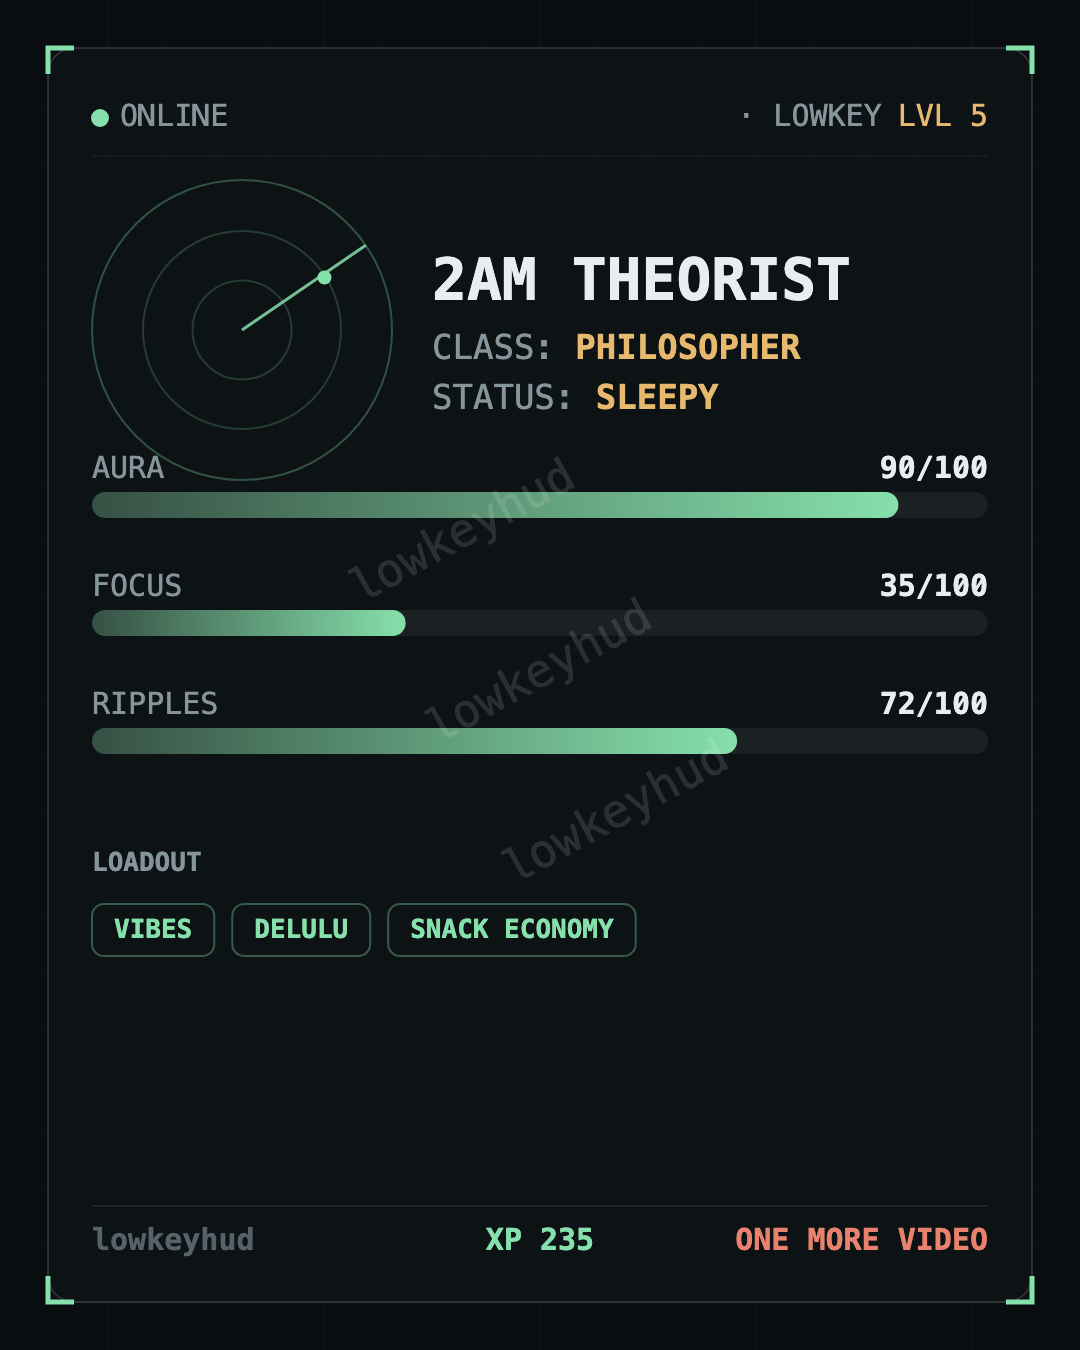
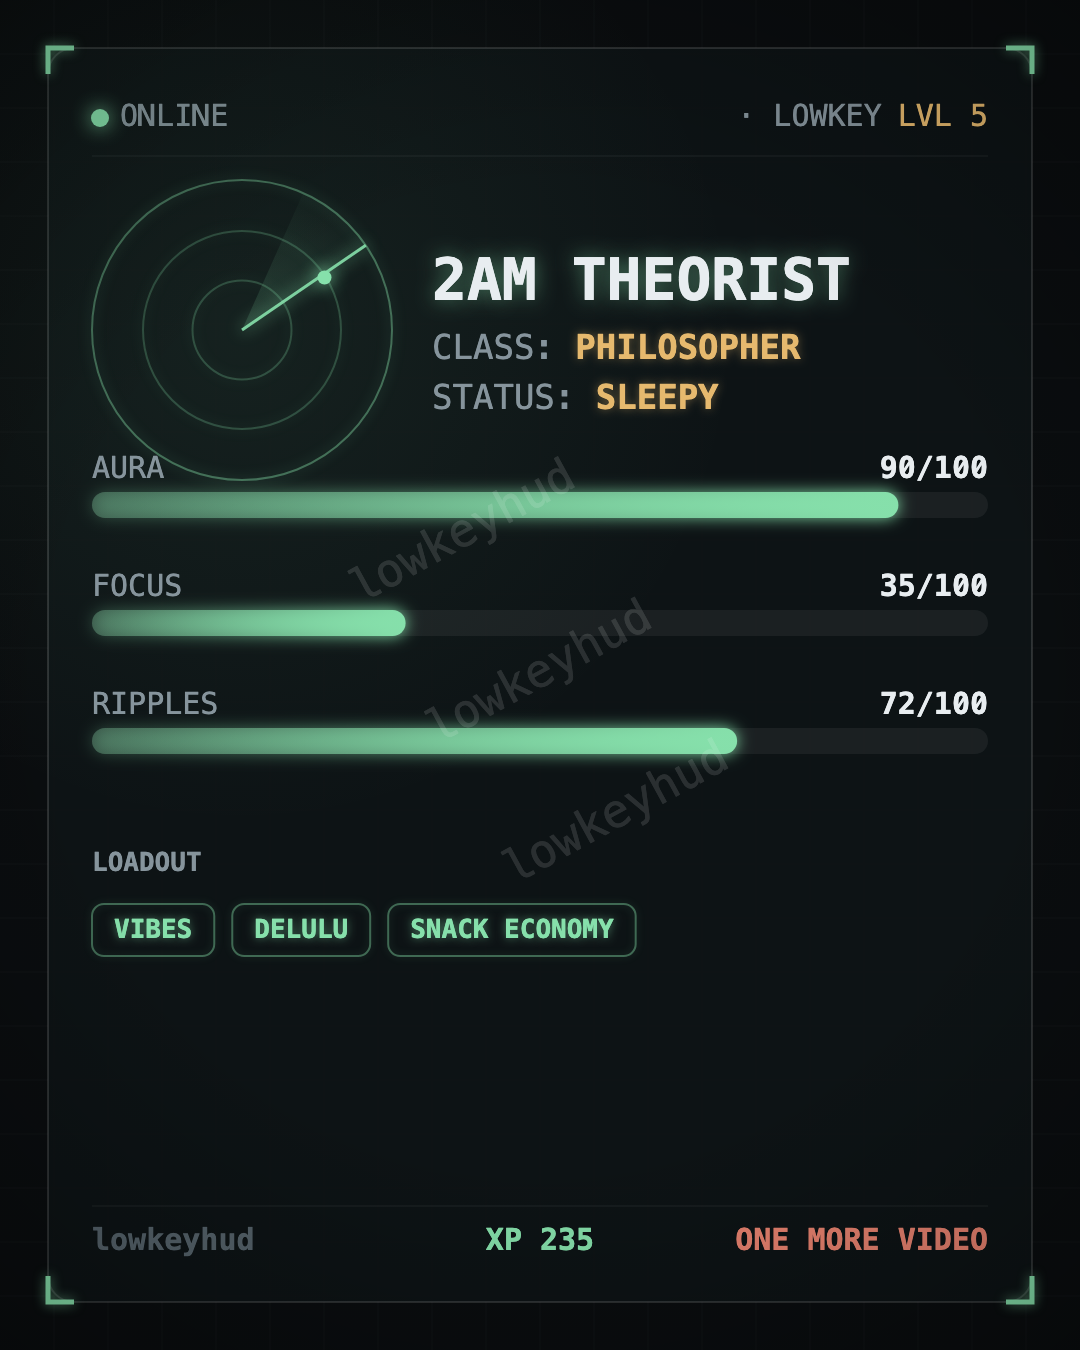
Add neon glow treatment to the HUD card
The card now emits light instead of sitting flat: glowing corner
brackets, a pulsing ONLINE dot, neon radar rings with a sweep cone that
rotates in the GIF, a glowing avatar ring, soft glow on the name and
amber values, luminous stat-bar fills, glowing chips, an ambient green
bloom behind the radar zone, and a vignette for depth. DOM preview
matches with radar/bar/name glow. Re-exported all launch cards (PNG +
GIF) with the glow; verified by pixel checks (photo vs radar now
distinguished by distinct-color count, since the glow lights the radar
centre).

🤖 Generated with Codebuff

diff --git a/generator.html b/generator.html
@@ -141,7 +141,7 @@
   .lvl{color:var(--amber)}
   .hud-body{display:grid;grid-template-columns:auto 1fr;gap:22px;margin-top:20px;align-items:center}
   @media(max-width:440px){.hud-body{grid-template-columns:1fr}}
-  .radar{width:118px;height:118px;border-radius:50%;position:relative;border:1px solid rgba(134,224,171,.3);background:radial-gradient(circle, rgba(134,224,171,.06) 0 40%, transparent 70%)}
+  .radar{width:118px;height:118px;border-radius:50%;position:relative;border:1px solid rgba(134,224,171,.3);background:radial-gradient(circle, rgba(134,224,171,.06) 0 40%, transparent 70%);box-shadow:0 0 28px rgba(134,224,171,.10), inset 0 0 20px rgba(134,224,171,.05)}
   .radar::before{content:"";position:absolute;inset:22px;border-radius:50%;border:1px solid rgba(134,224,171,.22)}
   .radar::after{content:"";position:absolute;inset:44px;border-radius:50%;border:1px solid rgba(134,224,171,.18)}
   .sweep{position:absolute;inset:0;border-radius:50%;background:conic-gradient(from 0deg, rgba(134,224,171,.5), transparent 70deg);animation:spin 4.5s linear infinite}
@@ -151,7 +151,7 @@
   .radar.pic-mode .avatar{display:block}
   .radar.pic-mode .sweep,.radar.pic-mode .blip{display:none}
   .radar.pic-mode::before,.radar.pic-mode::after{display:none}
-  .id h3{font-size:1.05rem;letter-spacing:.04em}
+  .id h3{font-size:1.05rem;letter-spacing:.04em;text-shadow:0 0 18px rgba(134,224,171,.35)}
   .id .tag{font-size:.72rem;color:var(--dim);letter-spacing:.16em;margin-top:2px}
   .id .tag b{color:var(--amber);font-weight:600}
   .id .tag .t-sep{display:inline}
@@ -161,7 +161,7 @@
   .stat .row{display:flex;justify-content:space-between;font-size:.68rem;letter-spacing:.18em;color:var(--dim);margin-bottom:6px}
   .stat .row b{color:var(--text);font-weight:600}
   .bar{height:7px;background:rgba(255,255,255,.06);border-radius:4px;overflow:hidden}
-  .bar i{display:block;height:100%;width:0;border-radius:4px;background:linear-gradient(90deg, var(--green-dim), var(--green));transition:width .35s ease}
+  .bar i{display:block;height:100%;width:0;border-radius:4px;background:linear-gradient(90deg, var(--green-dim), var(--green));box-shadow:0 0 8px rgba(134,224,171,.45);transition:width .35s ease}
   .loadout{display:flex;flex-wrap:wrap;gap:8px;margin-top:20px}
   .chip{font-size:.66rem;letter-spacing:.12em;color:var(--dim);border:1px solid var(--line-strong);border-radius:6px;padding:5px 10px}
   .chip.on{color:var(--green);border-color:rgba(134,224,171,.35)}
@@ -674,7 +674,10 @@
     roundRect(ctx, m, m, W-m*2, H-m*2, 26);
     ctx.stroke();
 
-    // corner brackets
+    // corner brackets (neon)
+    ctx.save();
+    ctx.shadowColor = "rgba(134,224,171,0.7)";
+    ctx.shadowBlur = 12;
     ctx.strokeStyle = "#86e0ab";
     ctx.lineWidth = 5;
     var cb = 26;
@@ -682,12 +685,17 @@
     bracket(ctx, W-m, m, cb, -1, 1);
     bracket(ctx, m, H-m, cb, 1, -1);
     bracket(ctx, W-m, H-m, cb, -1, -1);
+    ctx.restore();
 
     var P = 92; // inner padding
 
-    // header
+    // header (online dot with a neon pulse in the GIF)
+    ctx.save();
+    ctx.shadowColor = "#86e0ab";
+    ctx.shadowBlur = 20;
     ctx.fillStyle = "#86e0ab";
     ctx.beginPath(); ctx.arc(P+8, 118, 9, 0, Math.PI*2); ctx.fill();
+    ctx.restore();
     mono(ctx, "500 30px", "#86949c");
     ctx.textAlign = "left"; ctx.textBaseline = "middle";
     ctx.fillText("ONLINE", P+28, 118);
@@ -712,25 +720,62 @@
       ctx.clip();
       ctx.drawImage($("c-pic"), cx - r, cy - r, r*2, r*2);
       ctx.restore();
-      ctx.strokeStyle = "rgba(134,224,171,0.5)";
+      ctx.save();
+      ctx.shadowColor = "rgba(134,224,171,0.7)";
+      ctx.shadowBlur = 18;
+      ctx.strokeStyle = "rgba(134,224,171,0.55)";
       ctx.lineWidth = 3;
       ctx.beginPath(); ctx.arc(cx, cy, r, 0, Math.PI*2); ctx.stroke();
+      ctx.restore();
     } else {
-      ctx.strokeStyle = "rgba(134,224,171,0.30)";
+      // rings with a soft neon glow
+      ctx.save();
+      ctx.shadowColor = "rgba(134,224,171,0.8)";
+      ctx.shadowBlur = 14;
+      ctx.strokeStyle = "rgba(134,224,171,0.40)";
       ctx.lineWidth = 2;
       ctx.beginPath(); ctx.arc(cx, cy, r, 0, Math.PI*2); ctx.stroke();
-      ctx.strokeStyle = "rgba(134,224,171,0.20)";
+      ctx.strokeStyle = "rgba(134,224,171,0.24)";
       ctx.beginPath(); ctx.arc(cx, cy, r*0.66, 0, Math.PI*2); ctx.stroke();
       ctx.beginPath(); ctx.arc(cx, cy, r*0.33, 0, Math.PI*2); ctx.stroke();
-      // sweep
+      ctx.restore();
+      // sweep cone: trailing wedge + glowing leading line (sweeps in the GIF)
       var ang = t === undefined ? -0.6 : t * Math.PI * 2;
-      ctx.strokeStyle = "rgba(134,224,171,0.85)";
+      var trail = 0.55;
+      ctx.save();
+      ctx.beginPath();
+      ctx.moveTo(cx, cy);
+      ctx.arc(cx, cy, r, ang - trail, ang, false);
+      ctx.closePath();
+      var wg = ctx.createRadialGradient(cx, cy, 0, cx, cy, r);
+      wg.addColorStop(0, "rgba(134,224,171,0.16)");
+      wg.addColorStop(1, "rgba(134,224,171,0.02)");
+      ctx.fillStyle = wg;
+      ctx.fill();
+      ctx.restore();
+      ctx.save();
+      ctx.shadowColor = "rgba(134,224,171,0.9)";
+      ctx.shadowBlur = 16;
+      ctx.strokeStyle = "rgba(134,224,171,0.9)";
       ctx.lineWidth = 3;
       ctx.beginPath(); ctx.moveTo(cx, cy); ctx.lineTo(cx + Math.cos(ang)*r, cy + Math.sin(ang)*r); ctx.stroke();
-      // blip
+      ctx.restore();
+      // blip with a glow (pulses in the GIF)
+      var bR = t === undefined ? 7 : 6 + Math.sin(t * Math.PI * 2) * 2.5;
+      ctx.save();
+      ctx.shadowColor = "#86e0ab";
+      ctx.shadowBlur = 18;
       ctx.fillStyle = "#86e0ab";
-      ctx.beginPath(); ctx.arc(cx + r*0.55, cy - r*0.35, 7, 0, Math.PI*2); ctx.fill();
+      ctx.beginPath(); ctx.arc(cx + r*0.55, cy - r*0.35, bR, 0, Math.PI*2); ctx.fill();
+      ctx.restore();
     }
+
+    // ambient green bloom behind the radar/name zone
+    var bloom = ctx.createRadialGradient(cx, cy, 0, cx, cy, 500);
+    bloom.addColorStop(0, "rgba(134,224,171,0.07)");
+    bloom.addColorStop(1, "rgba(134,224,171,0)");
+    ctx.fillStyle = bloom;
+    ctx.fillRect(cx - 500, cy - 500, 1000, 1000);
 
     // name + class
     var tx = cx + r + 40;
@@ -742,13 +787,21 @@
       while (nameTxt.length > 1 && ctx.measureText(nameTxt + "…").width > maxX - tx) nameTxt = nameTxt.slice(0, -1);
       nameTxt += "…";
     }
+    ctx.save();
+    ctx.shadowColor = "rgba(134,224,171,0.45)";
+    ctx.shadowBlur = 20;
     ctx.fillText(nameTxt, tx, 285);
+    ctx.restore();
     var clsLabel = MODES[d.mode].clsLabel + ": ";
     mono(ctx, "500 34px", "#86949c");
     ctx.fillText(clsLabel, tx, 350);
     var clsW = ctx.measureText(clsLabel).width;
     mono(ctx, "600 34px", "#e6b96e");
+    ctx.save();
+    ctx.shadowColor = "rgba(230,185,110,0.4)";
+    ctx.shadowBlur = 10;
     ctx.fillText(d.cls, tx + clsW, 350);
+    ctx.restore();
     var mid = ctx.measureText(d.cls).width;
     var sep = "  ·  STATUS: ";
     if (tx + clsW + mid + ctx.measureText(sep).width + ctx.measureText(d.status).width <= maxX) {
@@ -757,14 +810,22 @@
       ctx.fillText(sep, tx + clsW + mid, 350);
       var stW = ctx.measureText(sep).width;
       mono(ctx, "600 34px", "#e6b96e");
+      ctx.save();
+      ctx.shadowColor = "rgba(230,185,110,0.4)";
+      ctx.shadowBlur = 10;
       ctx.fillText(d.status, tx + clsW + mid + stW, 350);
+      ctx.restore();
     } else {
       // status wraps to its own line below so it's never clipped
       var sep2 = "STATUS: ";
       mono(ctx, "500 34px", "#86949c");
       ctx.fillText(sep2, tx, 400);
       mono(ctx, "600 34px", "#e6b96e");
+      ctx.save();
+      ctx.shadowColor = "rgba(230,185,110,0.4)";
+      ctx.shadowBlur = 10;
       ctx.fillText(d.status, tx + ctx.measureText(sep2).width, 400);
+      ctx.restore();
     }
 
     // stats
@@ -793,8 +854,12 @@
           grad.addColorStop(1, "#86e0ab");
           ctx.fillStyle = grad;
         }
+        ctx.save();
+        ctx.shadowColor = "#86e0ab";
+        ctx.shadowBlur = 16;
         roundRect(ctx, bx, by, Math.max(fw, 20), bh, 13);
         ctx.fill();
+        ctx.restore();
       }
     });
 
@@ -812,12 +877,20 @@
       var cw = tw + 44, chh = 52;
       if(cx2 + cw > P + maxW){ cx2 = P; cy2 += chh + 18; }
       roundRect(ctx, cx2, cy2, cw, chh, 12);
-      ctx.strokeStyle = "rgba(134,224,171,0.35)";
+      ctx.save();
+      ctx.shadowColor = "rgba(134,224,171,0.5)";
+      ctx.shadowBlur = 8;
+      ctx.strokeStyle = "rgba(134,224,171,0.4)";
       ctx.lineWidth = 2;
       ctx.stroke();
+      ctx.restore();
+      ctx.save();
+      ctx.shadowColor = "rgba(134,224,171,0.5)";
+      ctx.shadowBlur = 10;
       ctx.fillStyle = "#86e0ab";
       ctx.textAlign = "left";
       ctx.fillText(chip, cx2 + 22, cy2 + chh/2 + 1);
+      ctx.restore();
       cx2 += cw + 18;
     });
 
@@ -834,6 +907,13 @@
     ctx.textAlign = "right";
     mono(ctx, "600 30px", "#e8826f");
     ctx.fillText(d.tag || "NO CAP", W-P, fy);
+
+    // vignette for depth
+    var vg = ctx.createRadialGradient(W/2, H/2, H*0.35, W/2, H/2, H*0.78);
+    vg.addColorStop(0, "rgba(0,0,0,0)");
+    vg.addColorStop(1, "rgba(0,0,0,0.42)");
+    ctx.fillStyle = vg;
+    ctx.fillRect(0, 0, W, H);
 
     // watermark on free exports
     if(wm === undefined ? !pro : wm){
